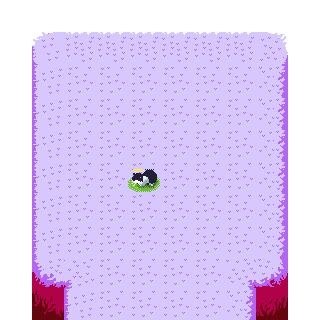
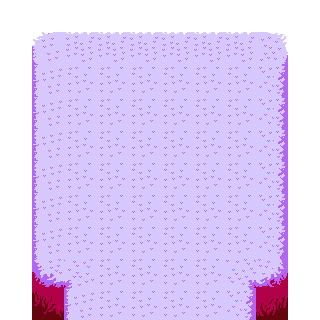
feat: added background music

Changed region(s): [[0.4062, 0.5312, 0.5, 0.625]]

diff --git a/src/model/npc_model.py b/src/model/npc_model.py
@@ -1,32 +1,26 @@
 import pygame as PYG
+import json
+import os
+
+from src.Config import DATA_DIR, CONTENT_DIR
 
 class NPCModel:
-    def __init__(self, x: float, y: float, size: int = 32) -> None:
+    def __init__(self, file_info: str, x: float, y: float, size: int = 32) -> None:
         self.x = x
         self.y = y
         self.rect = PYG.Rect(int(x), int(y), size, size)
         self.hitbox = PYG.Rect(0, 0, 32, 32)
         self.hitbox.center = self.rect.center
         self.is_interacting = False
-        self.dialog_lines = [
-            "zZZZzzzZzZzZZz-\n  ah..",
-            "Olá, Raposa",
-            "Acredito que seja você que ele tanto fala..",
-            "infelizmente tive que ir e deixa-lo",
-            "não sei como ele tenha lidado com isto...",
-            "desta vez não posso cuida-lo",
-            "poderia cuidar do meu humano por favor?",
-            "as vezes ele pode ser emocional\n  e lidar como fosse o fim do mundo",
-            "tive que morder a cenela dele multiplas vezes pra ele me alimentar..",
-            "ai ai.. humanos",
-            "bem..\n  vá até ele",
-            "sei que tu consegue Raposa",
-            "se cuide\n  você é muito importante pra ele",
-            "as emoções dele acabaram escapando",
-            "eles podem ser agressivos\napertando o botão direito do mouse\n(seja lá oq isso for)",
-            "você consegue desparar um pouco de ''ESPERANÇA''",
-            "agora vá\n  eu tenho que ficar aq descançando mais uns minuti..zZzzZz",
-            "zZzzZzZZZZzzzZZ\nZzzzZZZzzzzZzzzZzzz"
-        ]
+        self._load_npc_info(file_info)
+    
+    def _load_npc_info(self, file_info: str):
+        file_path_data = os.path.join(DATA_DIR, "npcs")
+        with open(os.path.join(file_path_data, file_info), "r", encoding="utf-8") as f:
+            data = json.load(f)
+        self.font_voice   = PYG.font.Font(os.path.join(CONTENT_DIR, "font",  data.get("font")), size=28)
+        self.sfx_voice    = PYG.Sound(os.path.join(CONTENT_DIR, "sound", data.get("sfx_voice")))
+        self.dialog_lines = data.get("dialog")
+        
     
     def interact(self): return self.dialog_lines

diff --git a/src/core/Core.py b/src/core/Core.py
@@ -11,24 +11,17 @@ class Core:
     def __init__(self):
         PYG.init()
         PYG.mixer.init()
-        
         flags = PYG.RESIZABLE if RESIZABLE else 0
         self.screen = PYG.display.set_mode(tuple(SCREEN_SIZE), flags)
         PYG.display.set_caption(WINDOW_TITLE)
-        
         self.clock = PYG.time.Clock()
         self.running = True
-        
         self._state = GameState.START_SCREEN
         self._controllers = {}
         self._load_controllers()
     
     def _load_controllers(self):
         self._controllers = {
-            GameState.START_SCREEN: StartScreenController(
-                screen=self.screen,
-                change_state_cb=self.change_state
-            ),
             GameState.PLAYING: PlayingController(
                 screen=self.screen,
                 change_state_cb=self.change_state
@@ -36,16 +29,20 @@ class Core:
             GameState.GAME_OVER: GameOverController(
                 screen=self.screen,
                 change_state_cb=self.change_state
-            )
+            ),
+            GameState.START_SCREEN: StartScreenController(
+                screen=self.screen,
+                change_state_cb=self.change_state
+            ),
         }
     
     def change_state(self, new_state: str):
-        if new_state == GameState.PLAYING and new_state not in self._controllers:
+        PYG.mixer.music.unload()
+        if new_state not in self._controllers:
             raise NotImplementedError(f"Controller para '{new_state}' ainda não implementado.")
         self._state = new_state
         controller = self.active_controller
-        if controller and hasattr(controller, "on_enter"):
-            controller.on_enter()
+        if controller and hasattr(controller, "on_enter"): controller.on_enter()
     
     @property
     def active_controller(self): return self._controllers.get(self._state)
@@ -53,18 +50,14 @@ class Core:
     async def run(self):
         while self.running:
             delta_time = self.clock.tick(FPS) / 1000.0
-            
             events = PYG.event.get()
             for event in events:
                 if event.type == PYG.QUIT: self.running = False
-            
             current_controller = self.active_controller
-            
             if current_controller:
                 current_controller.handle_events(events)
                 current_controller.update(delta_time)
                 current_controller.draw()
-            
             PYG.display.flip()
             await asyncio.sleep(0)
         self._quit()

diff --git a/src/controller/Start_screen_controller.py b/src/controller/Start_screen_controller.py
@@ -15,31 +15,35 @@ class StartScreenController(Controller):
         change_state_cb: Callable[[str], None]
     ):
         super().__init__(screen, change_state_cb)
-        PYG.mixer.music.fadeout(3)
-        PYG.mixer.music.unload()
-        PYG.mixer.music.load(os.path.join(CONTENT_DIR, "sound", "music", "another_him.mp3"))
-        PYG.mixer.music.set_volume(0.8)
-        PYG.mixer.music.play(loops=-1, fade_ms=5)
+        self.change_state_cb = change_state_cb
         self.view = StartScreenView(screen)
         self._buttons = {
             "Jogar": self._on_play,
             "Sair": self._on_quit
         }
         self.view.set_buttons(list(self._buttons.keys()))
-        
+        self.play_background_music()
+    
+    def play_background_music(self):
+        PYG.mixer.music.fadeout(3)
+        PYG.mixer.music.unload()
+        PYG.mixer.music.load(os.path.join(CONTENT_DIR, "sound", "music", "another_him.mp3"))
+        PYG.mixer.music.set_volume(0.8)
+        PYG.mixer.music.play(loops=-1, fade_ms=5)
+    
     def _on_play(self): self.change_state(GameState.PLAYING)
     
     def _on_quit(self): PYG.event.post(PYG.event.Event(PYG.QUIT))
     
+    def on_enter(self): self.__init__(self.screen, self.change_state_cb)
+    
     def handle_events(self, events: List[PYG.event.Event]):
         mouse_pos = PYG.mouse.get_pos()
         self.view.update_hover(mouse_pos)
-        
         for event in events:
             if event.type == PYG.MOUSEBUTTONDOWN and event.button == 1:
                 clicked = self.view.get_clicked_button(mouse_pos)
                 if clicked and clicked in self._buttons: self._buttons[clicked]()
-            
             if event.type == PYG.KEYDOWN:
                 if event.key == PYG.K_RETURN: self._on_play()
                 elif event.key == PYG.K_ESCAPE: self._on_quit()

diff --git a/src/controller/game_over_controller.py b/src/controller/game_over_controller.py
@@ -16,23 +16,27 @@ class GameOverController(Controller):
         change_state_cb: Callable[[str], None]
     ):
         super().__init__(screen, change_state_cb)
-        PYG.mixer.music.fadeout(3)
-        PYG.mixer.music.unload()
-        PYG.mixer.music.load(os.path.join(CONTENT_DIR, "sound", "music", "determination.mp3"))
-        PYG.mixer.music.set_volume(0.8)
-        PYG.mixer.music.play(loops=-1, fade_ms=5)
+        self.change_state_cb = change_state_cb
         self.view = GameOverView(screen)
         self._actions = {
             "Tentar Novamente": self._on_retry,
             "Menu Principal": self._on_menu
         }
         self.view.set_buttons(list(self._actions.keys()))
+        self._play_background_music()
+
+    def _play_background_music(self):
+        PYG.mixer.music.fadeout(3)
+        PYG.mixer.music.unload()
+        PYG.mixer.music.load(os.path.join(CONTENT_DIR, "sound", "music", "determination.mp3"))
+        PYG.mixer.music.set_volume(0.8)
+        PYG.mixer.music.play(loops=-1, fade_ms=5)
 
     def _on_retry(self): self.change_state(GameState.PLAYING)
     
     def _on_menu(self): self.change_state(GameState.START_SCREEN)
 
-    def on_enter(self): self.view.reset()
+    def on_enter(self): self.__init__(self.screen, self.change_state_cb); self.view.reset()
 
     def handle_events(self, events: list[PYG.event.Event]):
         for event in events:

diff --git a/src/controller/playing_controller.py b/src/controller/playing_controller.py
@@ -50,7 +50,7 @@ class PlayingController(Controller):
             self.enemies.append(EnemyModel(x=ex * 32, y=ey * 32, size=32))
         self.npcs.clear()
         for nx, ny in self.map_model.npc_spawns:
-            self.npcs.append(NPCModel(x=nx * 32, y=ny * 32, size=32))
+            self.npcs.append(NPCModel(self.map_model.npcs[0], x=nx * 32, y=ny * 32, size=32))
         self.camera.x = self.player_model.rect.centerx - (self.camera.width / 2)
         self.camera.y = self.player_model.rect.centery - (self.camera.height / 2)
         PYG.mixer.music.play(loops=-1,fade_ms=5)
@@ -60,8 +60,7 @@ class PlayingController(Controller):
             match event.type:
                 case PYG.KEYDOWN:
                     match event.key:
-                        case PYG.K_ESCAPE:
-                            self.change_state(GameState.START_SCREEN)
+                        case PYG.K_ESCAPE: self.change_state(GameState.START_SCREEN)
                         case PYG.K_e:
                             if self.dialog_system.active: self.dialog_system.advance()
                             else:
@@ -70,18 +69,17 @@ class PlayingController(Controller):
                                     dy = self.player_model.hitbox.centery - npc.hitbox.centery
                                     distance = math.hypot(dx, dy)
                                     if distance <= 50.0:
+                                        font = npc.font_voice
+                                        sfx_voice = npc.sfx_voice
                                         linhas_de_fala = npc.interact()
-                                        self.dialog_system.start_dialog(linhas_de_fala)
+                                        self.dialog_system.start_dialog(font, sfx_voice, linhas_de_fala)
                                         break
-                        case PYG.K_LSHIFT:
-                            self.player_model.speed = 150.0
+                        case PYG.K_LSHIFT: self.player_model.speed = 150.0
                 case PYG.KEYUP:
                     match event.key:
-                        case PYG.K_LSHIFT:
-                            self.player_model.speed = 50.0
+                        case PYG.K_LSHIFT: self.player_model.speed = 50.0
             if event.type == PYG.KEYDOWN and event.key == PYG.K_ESCAPE:
                 self.change_state(GameState.START_SCREEN)
-            
 
     def update(self, delta_time: float):
         if self.dialog_system.active:

diff --git a/src/ui/dialogSystem.py b/src/ui/dialogSystem.py
@@ -16,11 +16,13 @@ class DialogSystem:
         self.state = "IDLE"     #? Estados: IDLE, TYPING, WAITING
         self.box_height = 160
         self.margin = 20
-        self.sfx_voice = PYG.Sound(os.path.join(CONTENT_DIR, "sound", "meow-1.mp3"))
-        self.sfx_voice.set_volume(0.5)
+        self.sfx_voice = PYG.Sound(os.path.join(CONTENT_DIR, "sound", "meow-talk.wav"))
         self.font = PYG.font.Font(os.path.join(CONTENT_DIR, "font", "KiwiSoda.ttf"), size=28) 
 
-    def start_dialog(self, lines: list[str]):
+    def start_dialog(self, font: PYG.font.Font, sfx_voice: PYG.Sound, lines: list[str]):
+        self.font = font
+        self.sfx_voice = sfx_voice
+        self.sfx_voice.set_volume(0.5)
         if not lines: return
         self.lines = lines
         self.current_line_idx = 0
@@ -50,6 +52,7 @@ class DialogSystem:
         if self.char_timer >= self.char_delay:
             self.char_timer = 0.0
             self.current_char_idx += 1
+            self.sfx_voice.play()
             if self.current_char_idx >= len(self.lines[self.current_line_idx]):
                 self.current_char_idx = len(self.lines[self.current_line_idx])
                 self.state = "WAITING"
@@ -67,7 +70,6 @@ class DialogSystem:
             words = display_text.split('\n')
             for i, line in enumerate(words):
                 text_surf = self.font.render(line, True, (255, 255, 255))
-                self.sfx_voice.play()
                 self.screen.blit(text_surf, (box_rect.x + 25, box_rect.y + 25 + (i * 35)))
             if self.state == "WAITING":
                 indicator = self.font.render(">", True, (255, 255, 255))

diff --git a/src/model/map_model.py b/src/model/map_model.py
@@ -1,7 +1,7 @@
-import json
-import os
 
 import pygame as PYG
+import json
+import os
 
 from src.Config import DATA_DIR, CONTENT_DIR
 
@@ -13,6 +13,7 @@ class MapModel:
         self.cutscene_collision_grid = []
         self.transitions = {}
         self.enemy_spawns = []
+        self.npcs = []
         self.npc_spawns = []
         self.item_spawns = []
         self.overhead_entities = []
@@ -30,6 +31,7 @@ class MapModel:
             data = json.load(f)
         meta_image_path = data.get("meta_image")
         self.visual_image_path = data.get("visual_image")
+        self.npcs = data.get("npcs")
         self.entities_tileset = data.get("entities_tileset", "start_area")
         self.color_to_entity = data.get("color_to_entity", {})
         self.transitions_targets = data.get("transitions", [])
@@ -94,7 +96,7 @@ class MapModel:
 
     def is_cutscrene_wall(self, grid_x: int, grid_y: int) -> bool:
         if 0 <= grid_y < self.height_tiles and 0 <= grid_x < self.width_tiles:
-            return self.cutscene_collision[grid_y][grid_x]
+            return self.cutscene_collision_grid[grid_y][grid_x]
         return True
 
     def get_tile_at(self, pixel_x:float,pixel_y:float)->str:

diff --git a/src/view/Start_screen_view.py b/src/view/Start_screen_view.py
@@ -33,26 +33,22 @@ class StartScreenView(View):
 
     def __init__(self, screen: PYG.Surface):
         super().__init__(screen)
-        
         self.font_title = PYG.font.SysFont(None, FONT_SIZE_TITLE, bold=True)
         self.font_btn = PYG.font.SysFont(None, FONT_SIZE_LARGE - 10, bold=True)
         self.font_hint = PYG.font.SysFont(None, FONT_SIZE_SMALL)
-        
         self._buttons: list[str] = []
         self._hovered: str | None = None
         self._btn_rects: dict[str, PYG.Rect] = {}
-        
         self._time = 0.0
         self._partiples = self._create_particles(60)
         self._title_alpha = 0
         self._btn_alpha = 0
-        
         self._bg = self._make_gradient()
         
     def set_buttons(self, labels: list[str]):
         self._buttons = labels
         self._compute_btn_rects()
-    
+
     def _compute_btn_rects(self):
         #* total_h = len(self._buttons) * self.BTN.HEIGHT + (len(self._buttons) - 1) * self.BTN.GAP
         start_y = self.height // 2 + 60